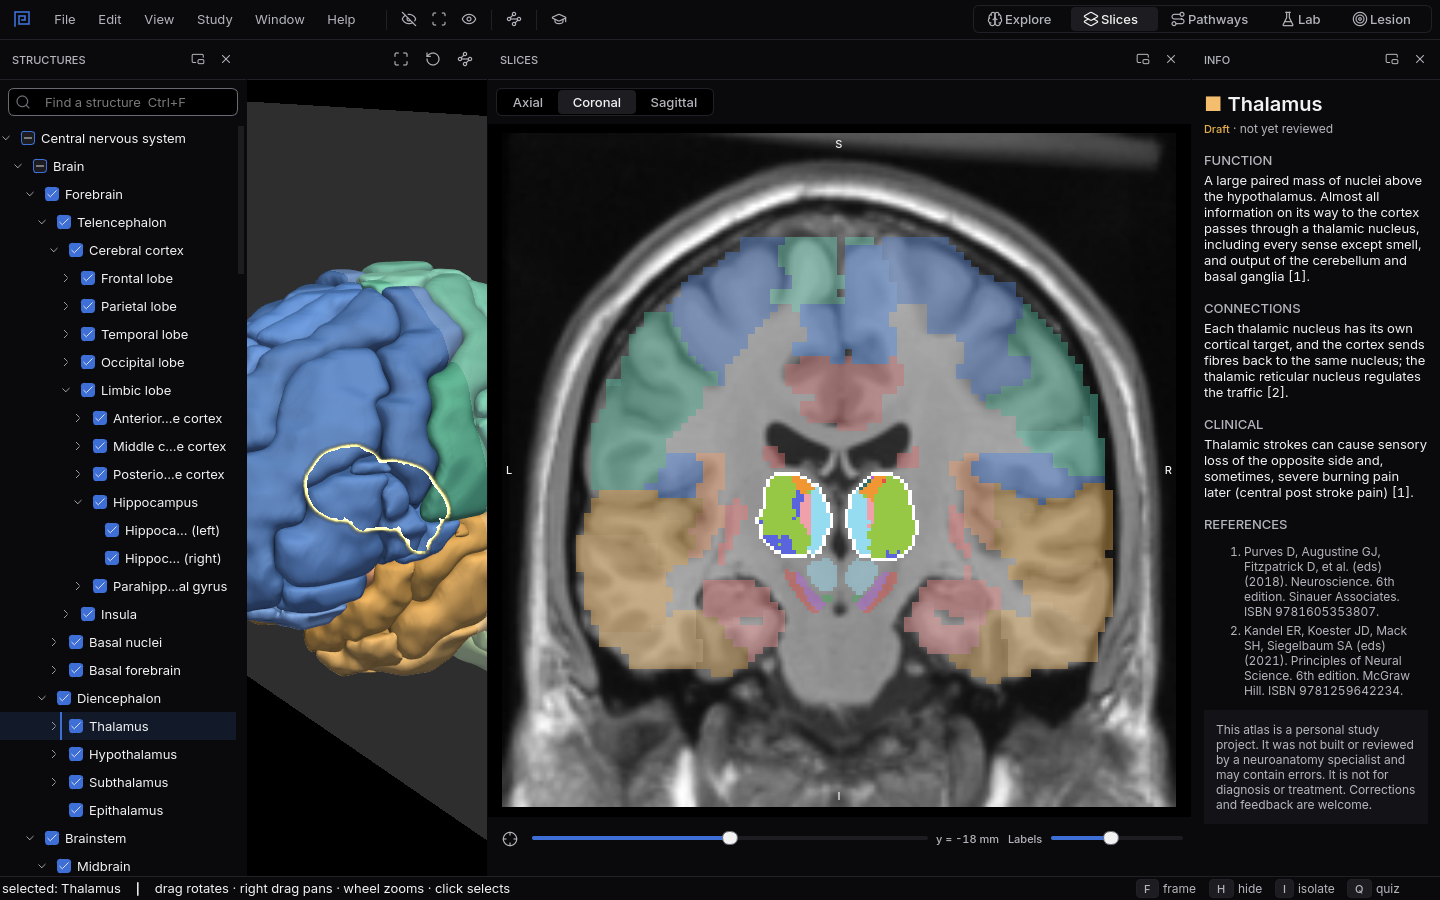
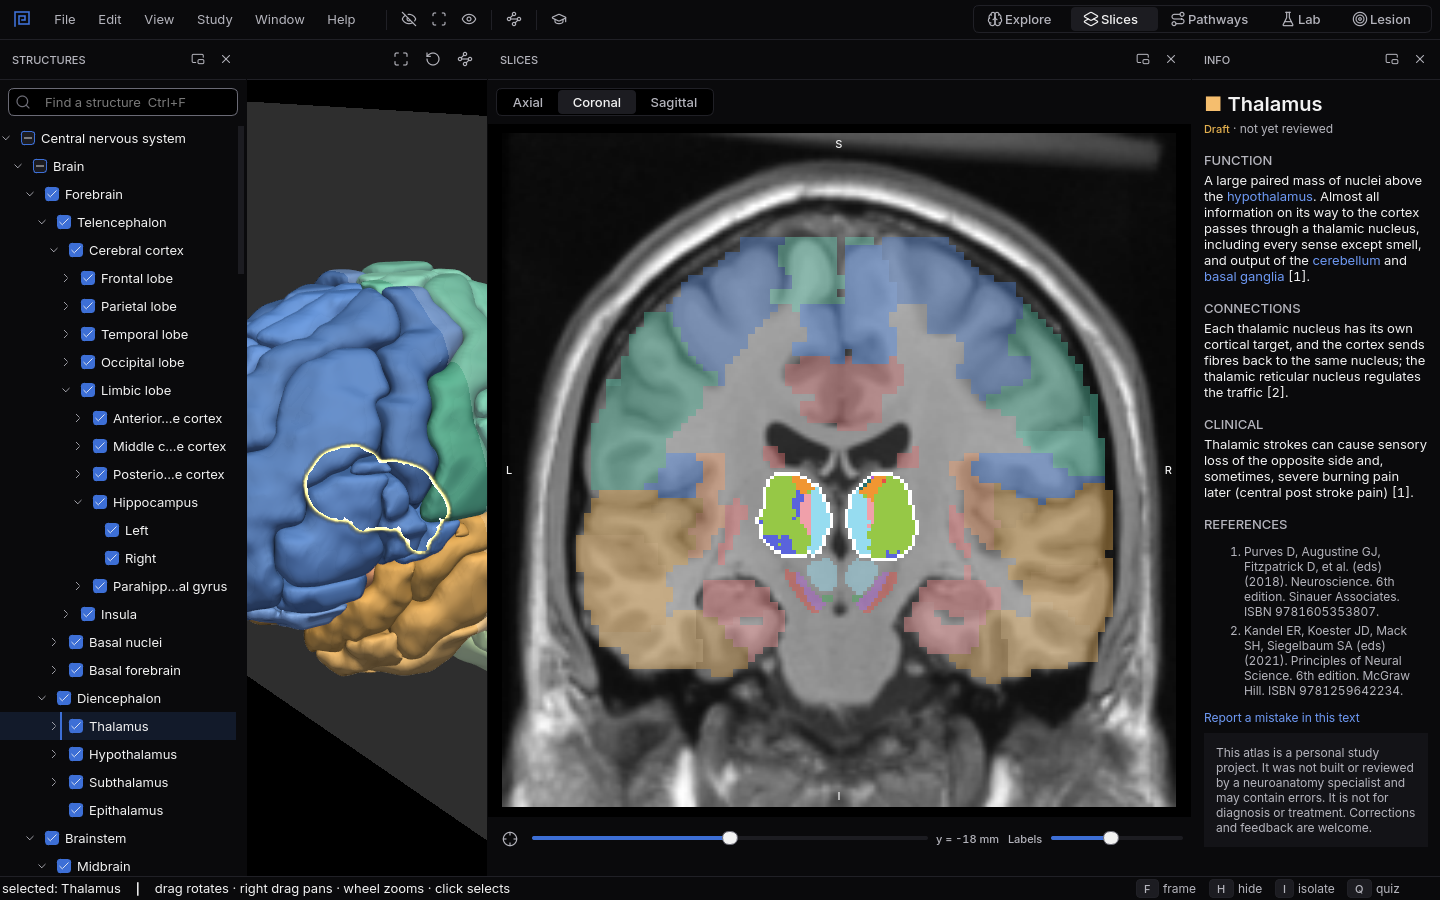
Describe linked names, Back, Likely signs and the shorter tree names in the handbook

diff --git a/site/handbook/explore.md b/site/handbook/explore.md
@@ -29,7 +29,9 @@ and scroll to zoom. `F` frames the selection, `R` resets the view.
 
 **Select.** Click any part in the 3D view, or pick it in the **Structures** list on the left. Press
 `Ctrl+F` to find a structure by name, abbreviation, synonym or atlas label. Selecting a group, such
-as the frontal lobe, highlights everything inside it.
+as the frontal lobe, highlights everything inside it. Inside a group the list shows only what tells
+its parts apart, so the two halves of the precentral gyrus read **Left** and **Right**; hover over
+an item for its full name. While you search, every item shows its full name.
 
 **Take it apart.** `H` hides the selection, `I` isolates it so it is all you see, and `U` shows
 everything again. The tick boxes in the list do the same for any part: unticking a group hides all
@@ -37,7 +39,9 @@ of it, and a half ticked group hides all of it on the first click.
 
 **Read about it.** The **Info** panel describes the selection: its function, its connections and
 what damage there causes, with numbered references, and the atlas its shape comes from. Texts
-marked **Draft** have not been reviewed yet.
+marked **Draft** have not been reviewed yet. The parts a text names are links: click one to select
+and frame that part, then **Back to** at the top of the panel, or `Alt+Left`, returns along the
+links you followed.
 
 **Tracts.** The white matter tracts, such as the corticospinal tract, the lemnisci and the
 cerebellar peduncles, are hidden when the app opens so they do not cover the grey matter. `T` shows
@@ -74,5 +78,6 @@ routes and the Lab.
 | `U` | Show all |
 | `T` | Show or hide all tracts |
 | `Ctrl+F` | Find a structure |
+| `Alt+Left` | Back to the part you came from by a link in Info |
 | `F1` | About Mnemosyn: data sources and licences |
 | `Ctrl+1` to `Ctrl+5` | Switch workspace: Explore, Slices, Pathways, Lab, Lesion |

diff --git a/site/handbook/lesion.md b/site/handbook/lesion.md
@@ -40,9 +40,13 @@ expect.
 ![The Place tab before a lesion](shots/lesion.png){ .shot }
 <p class="caption">The Place tab before a lesion: the arterial territories grouped by artery, with the slice beside the 3D view.</p>
 
-**Read the result.** **Deficits** lists the routes the lesion breaks, from the side each route
-begins on, with the deficit at every broken step, the structures behind it, a **partly** mark when
-only a small share of a station is hit, and the sources; then the routes it spares. **Hit** ranks
+**Read the result.** **Deficits** opens with the **Likely signs**: each sign the lesion would cause,
+once, marked **partly** when it comes only from stations that are barely hit, with **Show route**
+to open the route in Pathways at the broken step. Below them it lists the routes the lesion breaks,
+from the side each route begins on, with the deficit at every broken step, the structures behind
+it, a **partly** mark when only a small share of a station is hit, and the sources; then the routes
+it spares. The parts named in the texts are links that select and frame the part without changing
+the lesion. **Hit** ranks
 every structure the lesion touches by how much of it is inside.
 
 **Solve cases.** **Cases** turns it around. **New case** describes a patient's signs; you place the

diff --git a/site/handbook/pathways.md b/site/handbook/pathways.md
@@ -37,7 +37,8 @@ station; `Left` and `Right` move back and forward, and `Space` plays the route o
 speed you choose. Crossings and relays that have no shape in the atlas are steps of their own.
 
 **Read each step.** The **Step** tab on the right says what happens at the current station and
-what a lesion there would do, with references. For sensory and motor routes, **Left** and
+what a lesion there would do, with references. The parts it names are links that select and frame
+that part. For sensory and motor routes, **Left** and
 **Right** choose the side the route starts on. Behaviour routes light both sides and list the
 disorders and drugs linked to each step.
 
